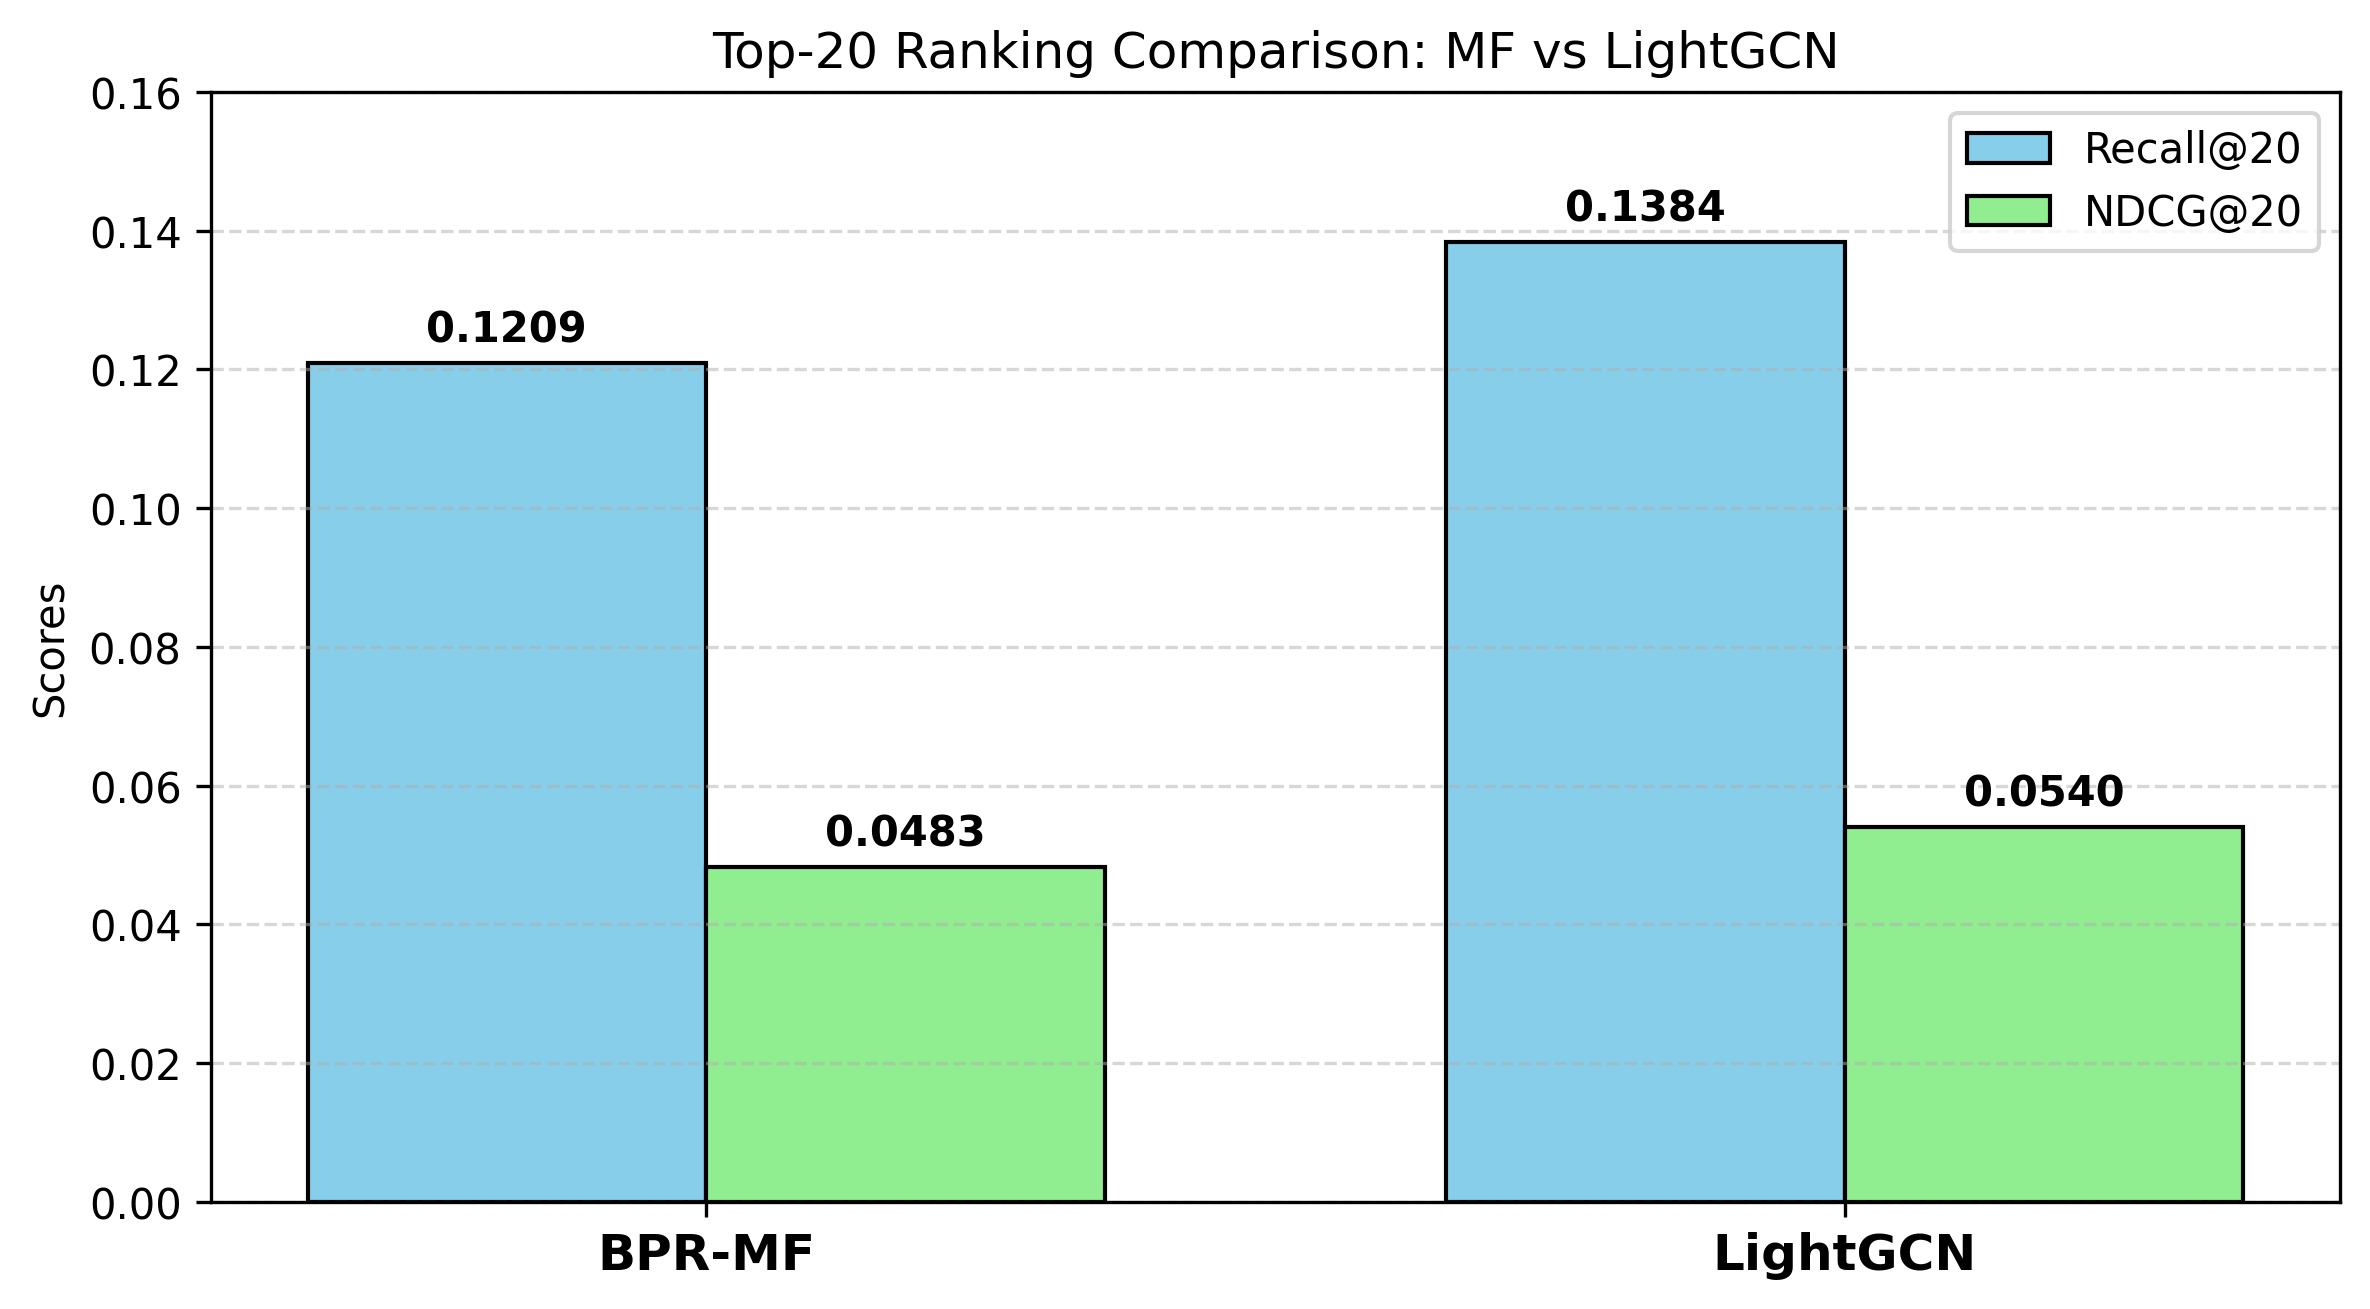
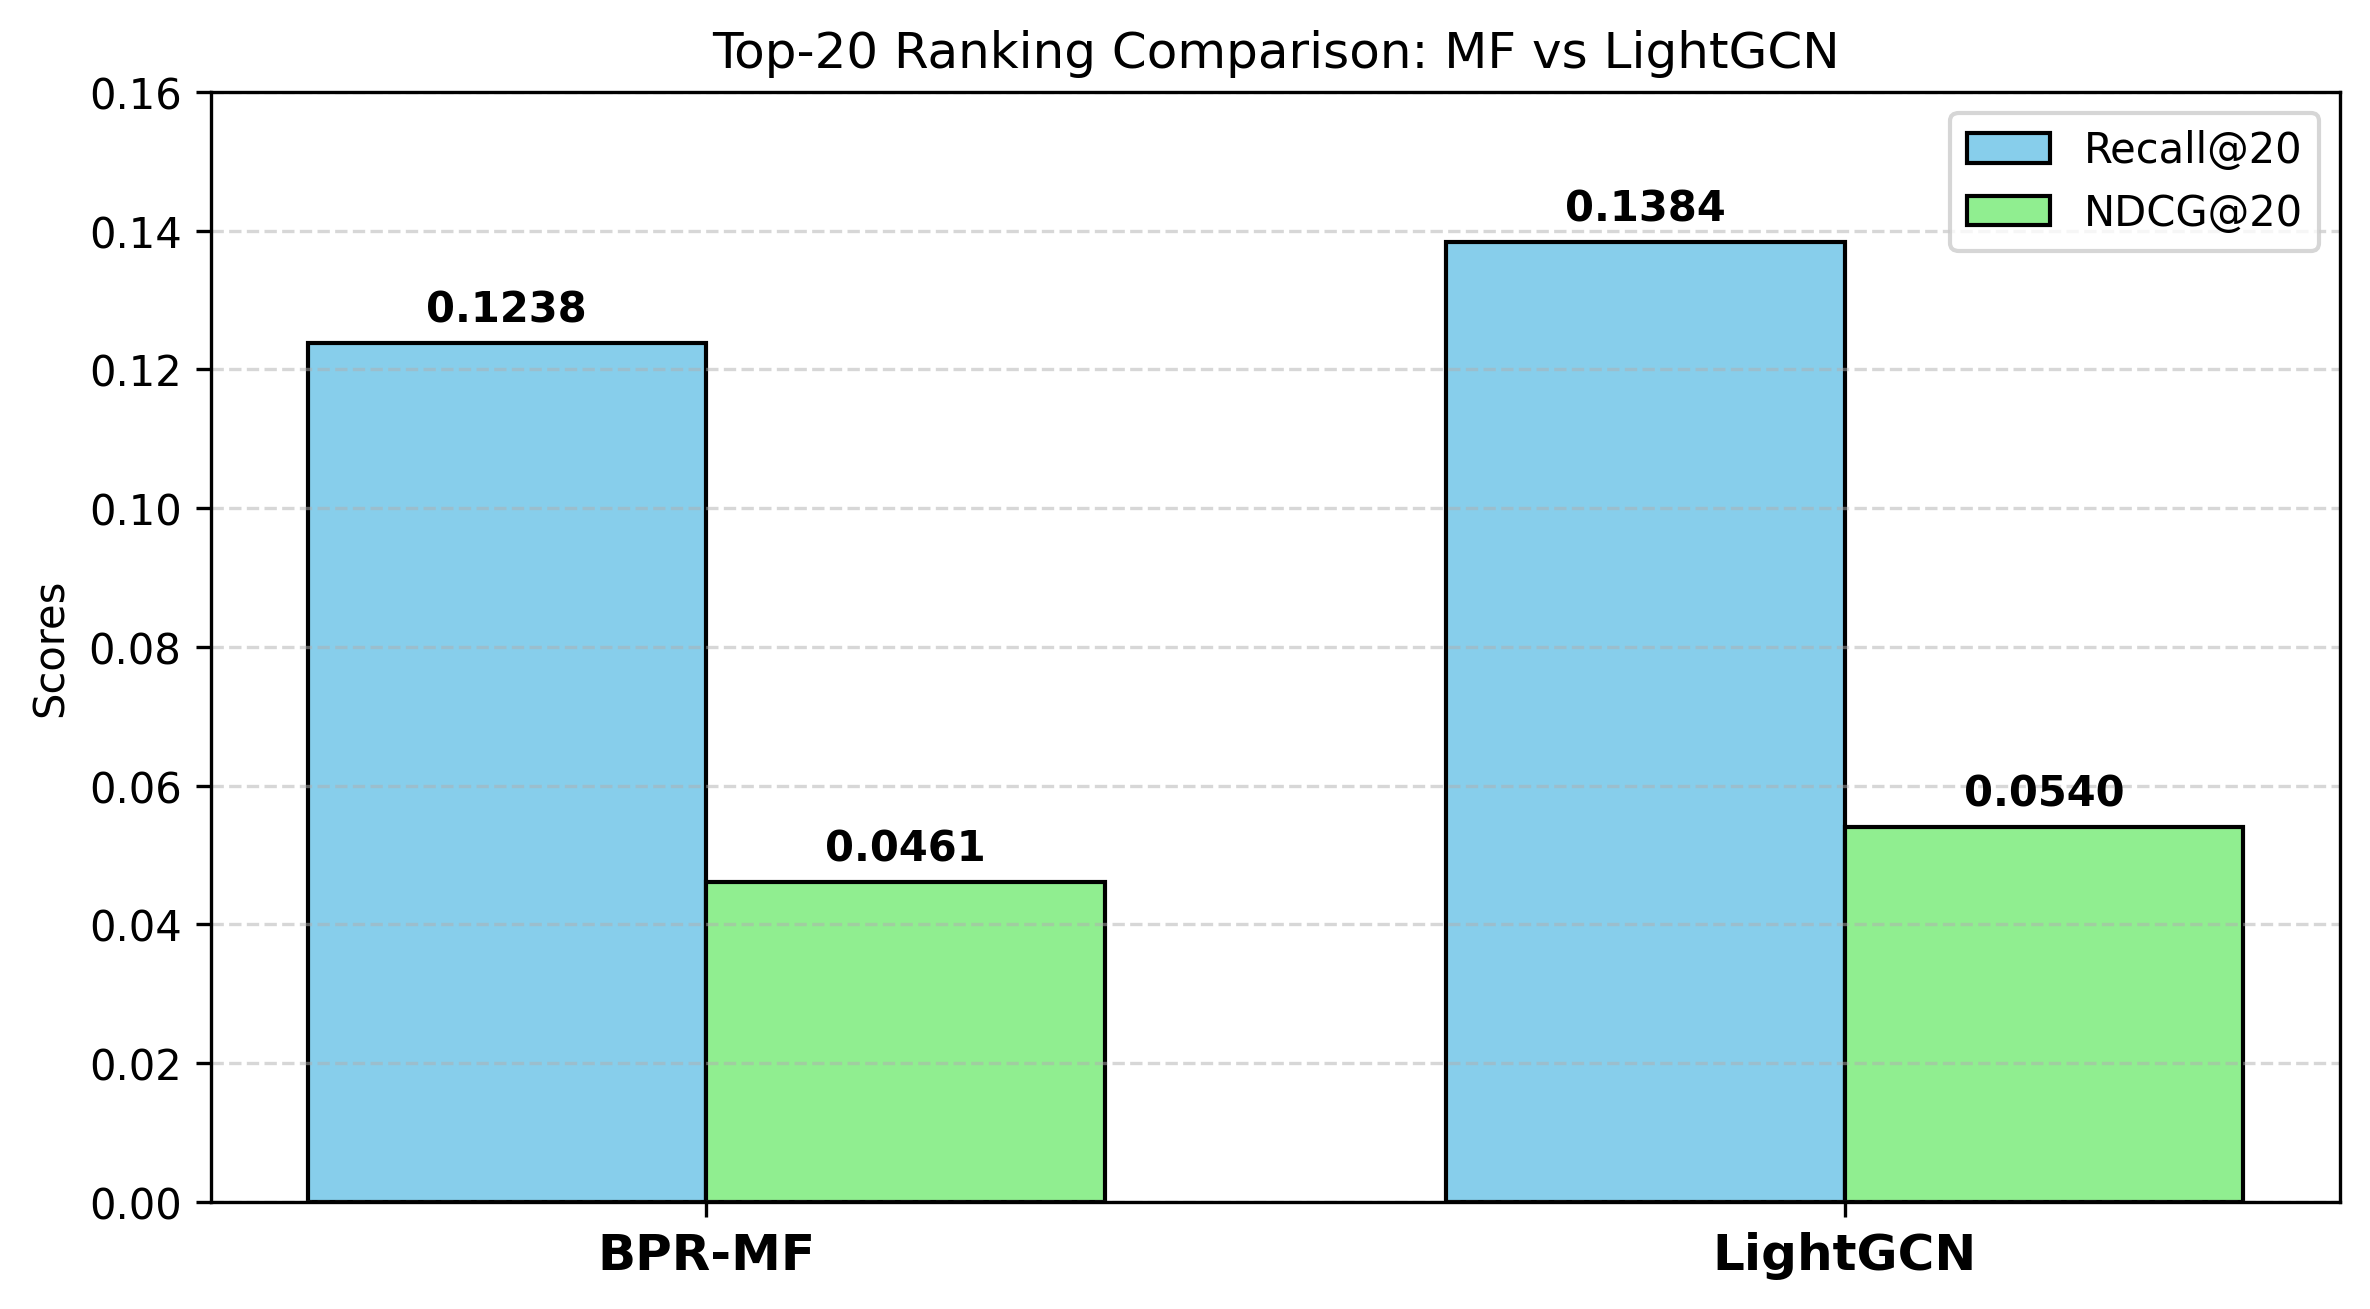
Update

Changed region(s): [[0.1249, 0.2139, 0.3122, 0.3056], [0.281, 0.6112, 0.4684, 0.6723]]

diff --git a/Model/plot_comparison.py b/Model/plot_comparison.py
@@ -5,8 +5,8 @@ import numpy as np
 def main():
     # Performance metrics
     models = ['BPR-MF', 'LightGCN']
-    recall_scores = [0.1209, 0.1384]
-    ndcg_scores = [0.0483, 0.0540]
+    recall_scores = [0.1238 , 0.1384]
+    ndcg_scores = [0.0461, 0.0540]
 
     x = np.arange(len(models))
     width = 0.35